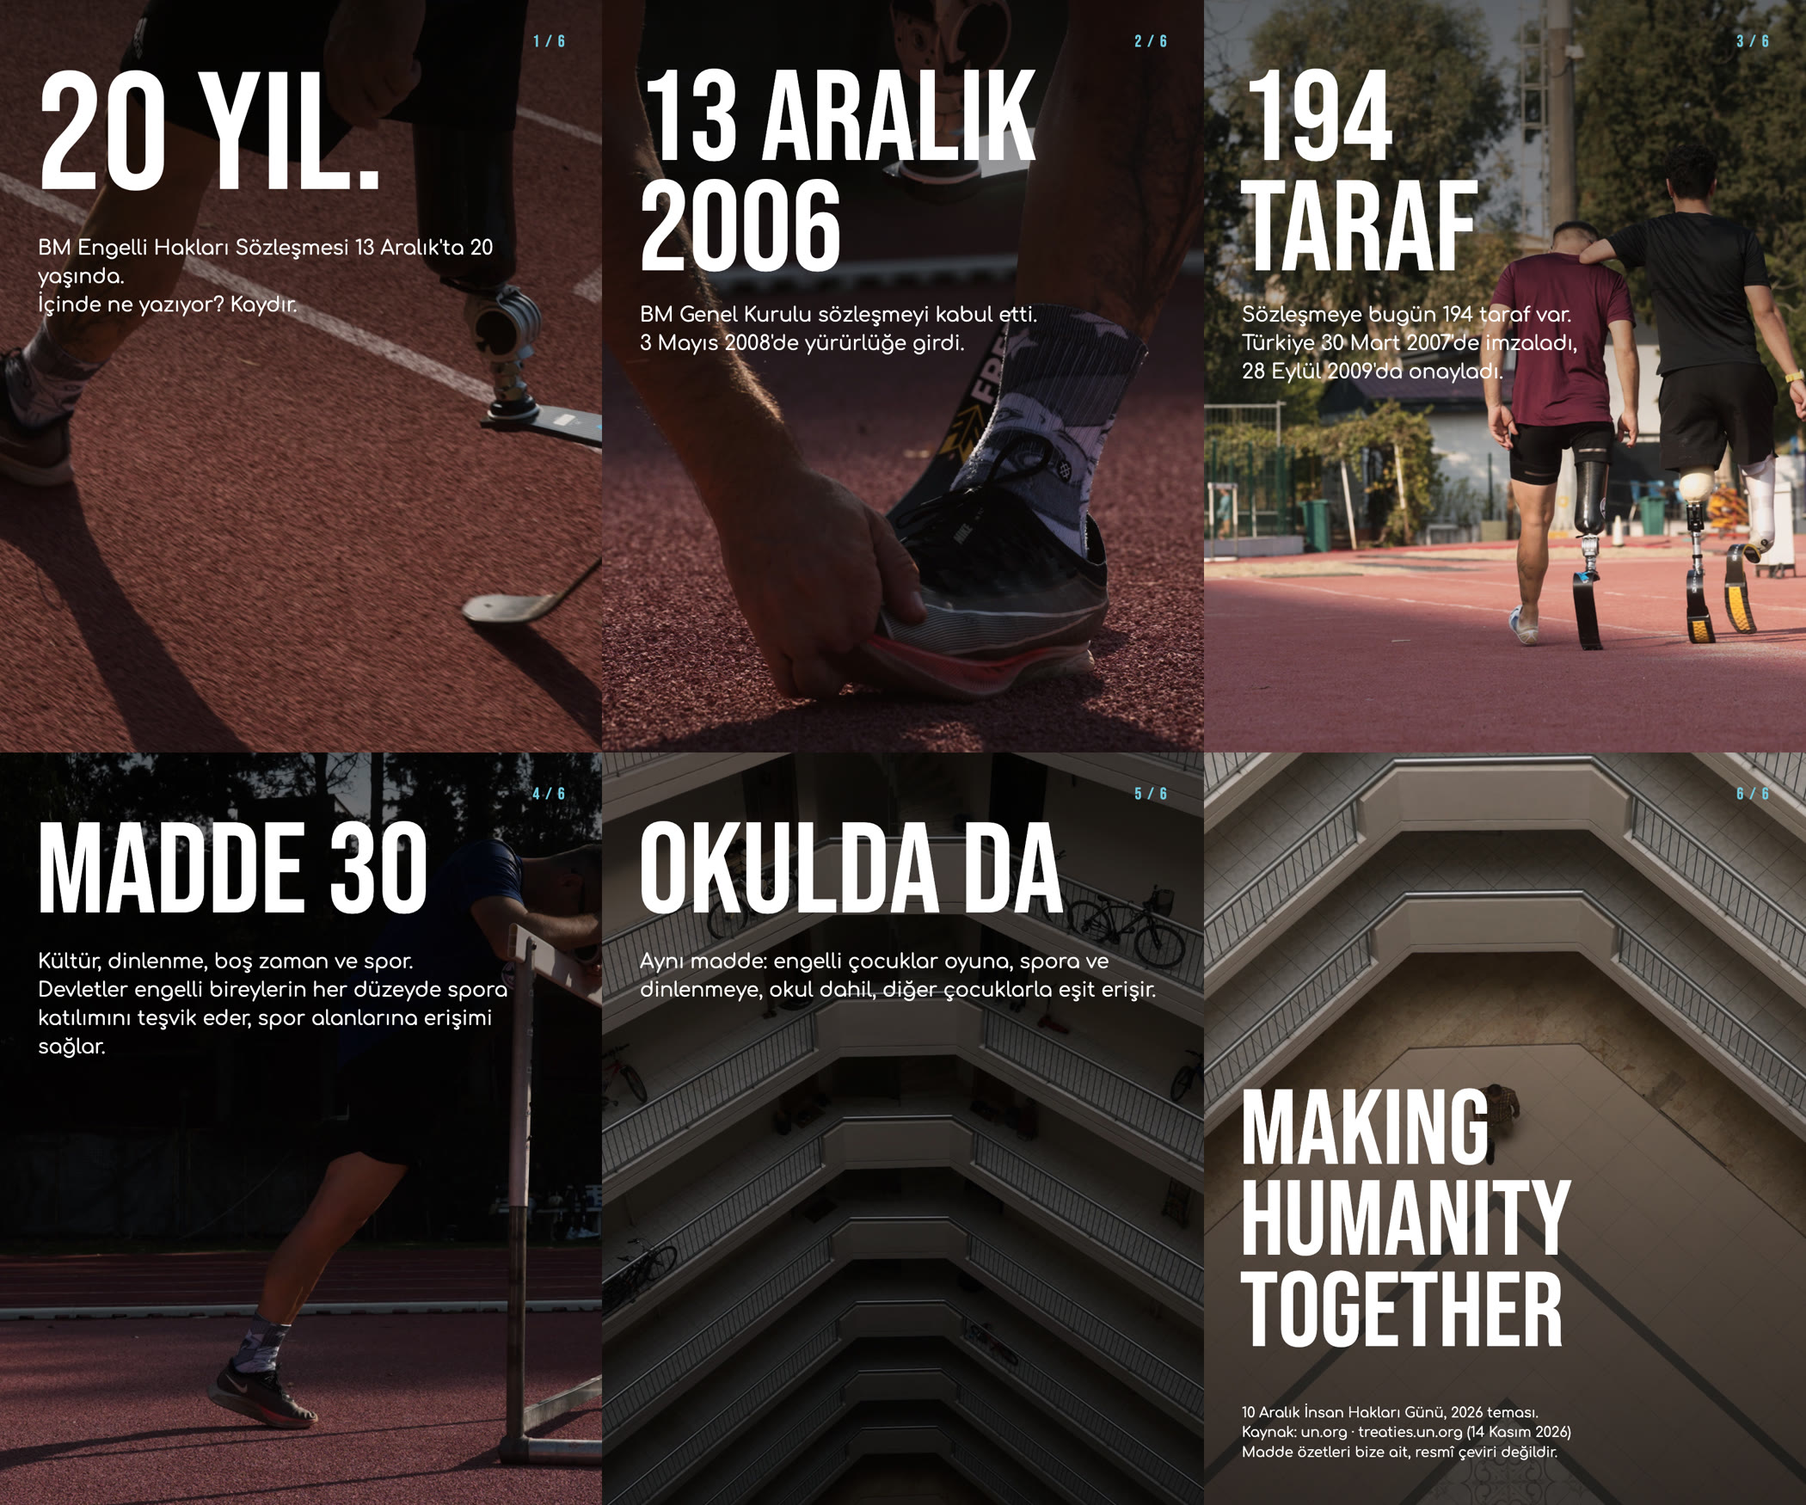
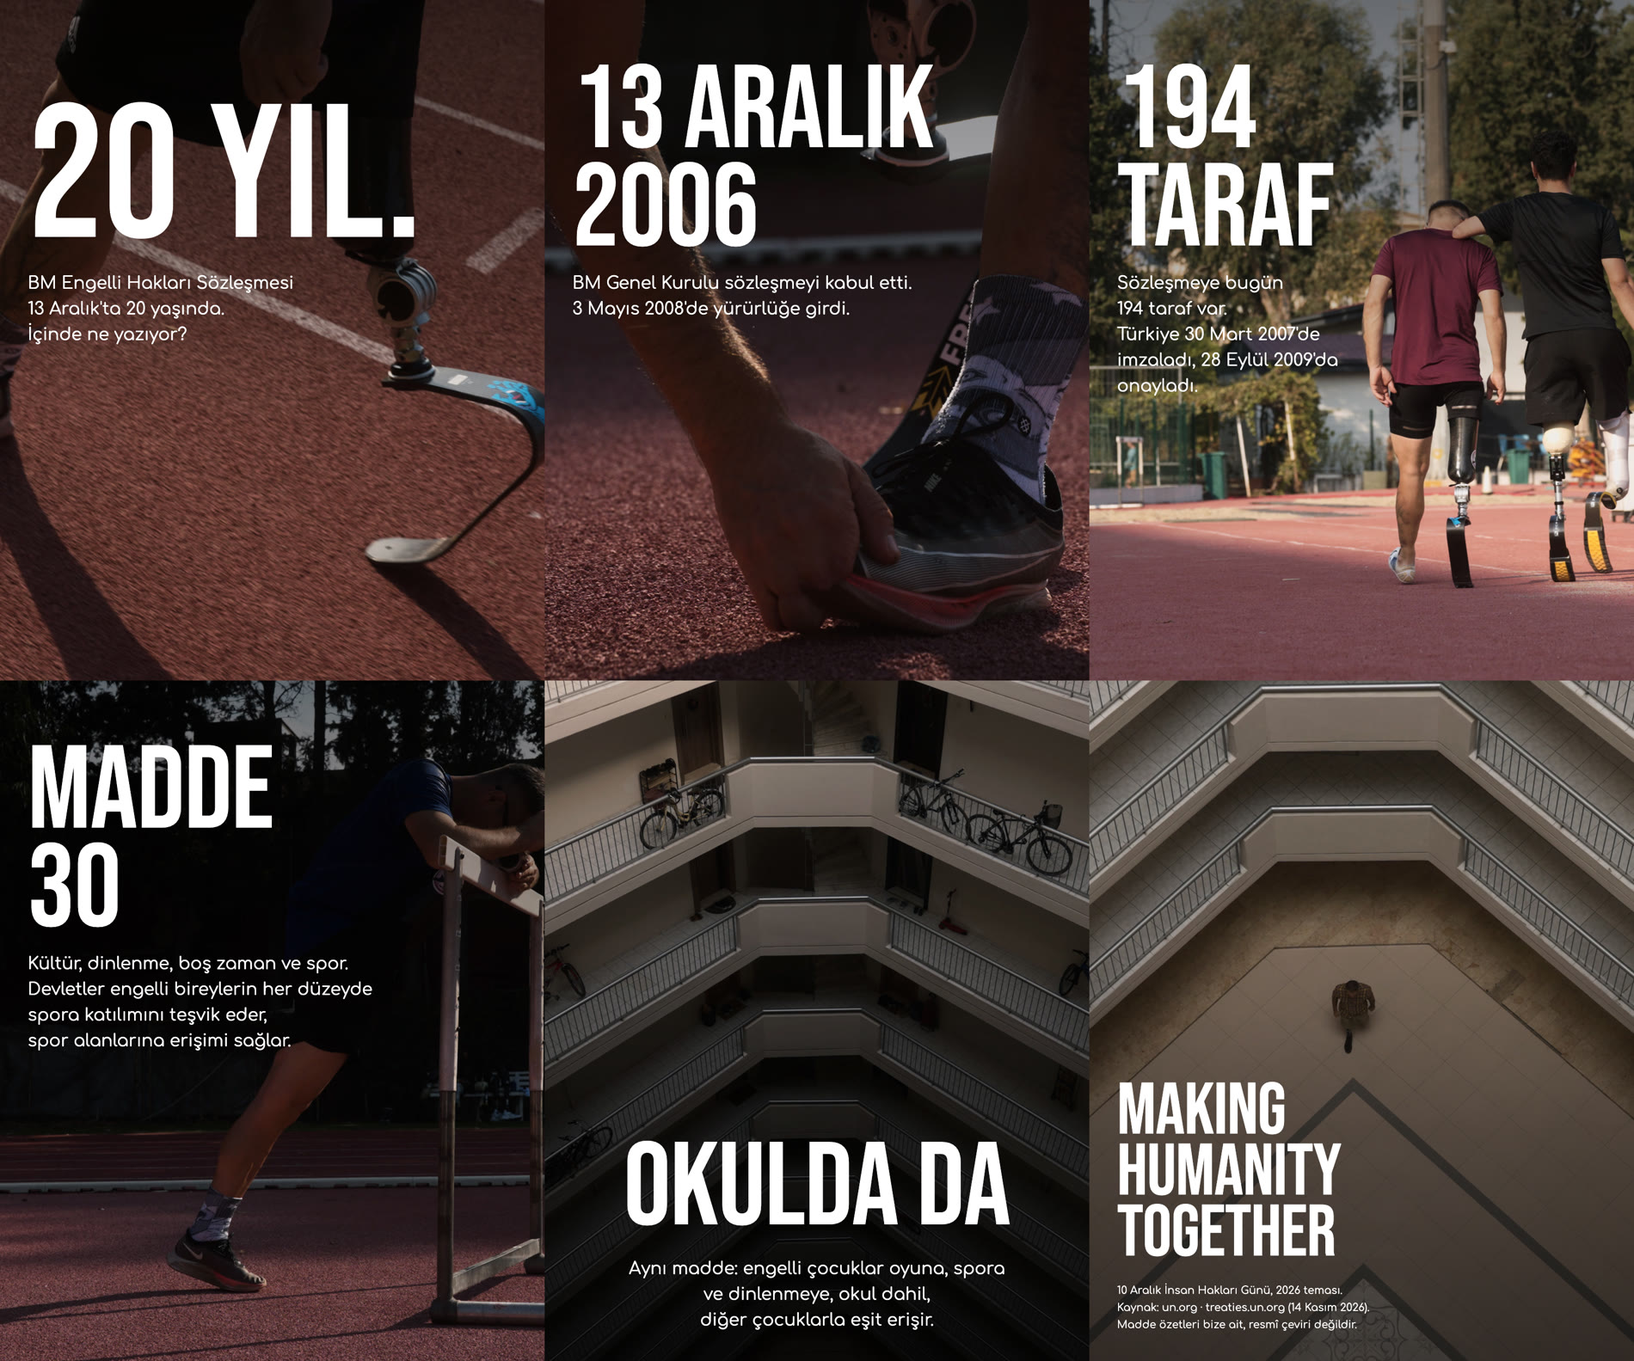
14 Kas: madde 11 v4 — altın oran ızgarası + Fibonacci punto ölçeği, sayfa no/marka adı yok

diff --git a/raporlar/soc-instagram-taslaklar/11-insan-haklari-gunu/kare-6.html b/raporlar/soc-instagram-taslaklar/11-insan-haklari-gunu/kare-6.html
@@ -1,9 +1,17 @@
 <!doctype html><html lang="tr"><head><meta charset="utf-8"><style>@font-face{font-family:Bebas;src:url(file:///Users/ayhanerden/Fox/assets/fonts/BebasNeue-Regular.ttf)}
 @font-face{font-family:Comf;src:url(file:///Users/ayhanerden/Fox/assets/fonts/Comfortaa-Regular.ttf)}
 html,body{margin:0} .f{position:relative;width:1080px;height:1350px;overflow:hidden;color:#fff;background-size:cover;background-position:center}
-.sc{position:absolute;left:0;width:100%;height:820px}
-.sc.top{top:0;background:linear-gradient(180deg,rgba(0,0,0,.55) 0%,rgba(0,0,0,.30) 60%,rgba(0,0,0,0) 100%)}
-.sc.bottom{bottom:0;background:linear-gradient(0deg,rgba(0,0,0,.62) 0%,rgba(0,0,0,.32) 60%,rgba(0,0,0,0) 100%)}
-.h{position:absolute;font:400 230px/0.86 Bebas}
-.s{position:absolute;font:400 36px/1.42 Comf;max-width:940px}
-.n{position:absolute;right:64px;top:60px;font:400 30px/1 Bebas;letter-spacing:3px;color:#72CBDF}</style></head><body><div class="f" style="background-image:url(v3/b6.jpg)"><div class="sc bottom"></div><div class="n">6 / 6</div><div class="h" style="left:64px;bottom:260px;font-size:190px">MAKING<br>HUMANITY<br>TOGETHER</div><div class="s" style="left:68px;bottom:76px;font-size:25px">10 Aralık İnsan Hakları Günü, 2026 teması.<br>Kaynak: un.org · treaties.un.org (14 Kasım 2026)<br>Madde özetleri bize ait, resmî çeviri değildir.</div></div></body></html>
+.sc{position:absolute;left:0;width:100%}
+.sc.top{top:0;height:834px;background:linear-gradient(180deg,rgba(0,0,0,.50) 0%,rgba(0,0,0,.30) 55%,rgba(0,0,0,0) 100%)}
+.sc.bottom{bottom:0;height:834px;background:linear-gradient(0deg,rgba(0,0,0,.60) 0%,rgba(0,0,0,.34) 55%,rgba(0,0,0,0) 100%)}
+.blk{position:absolute;left:55px;width:970px;display:flex;flex-direction:column}
+.blk.top{top:0;height:516px;justify-content:flex-end}
+.blk.bottom{bottom:55px;justify-content:flex-end}
+.blk.c{align-items:center;text-align:center}
+.h{font-family:Bebas;font-weight:400;line-height:.84;letter-spacing:-1px;margin:0}
+.s{font:400 34px/1.5 Comf;margin:0;white-space:nowrap}
+
+.blk.top .s{position:absolute;top:537px;left:0}
+.blk.bottom .h{margin-bottom:34px}
+.small .s{font-size:21px;line-height:1.62}
+.g{position:absolute;background:#72CBDF;opacity:.9}</style></head><body><div class="f" style="background-image:url(v4/b6.jpg)"><div class="sc bottom"></div><div class="blk bottom small"><p class="h" style="font-size:144px">MAKING<br>HUMANITY<br>TOGETHER</p><p class="s">10 Aralık İnsan Hakları Günü, 2026 teması.<br>Kaynak: un.org · treaties.un.org (14 Kasım 2026).<br>Madde özetleri bize ait, resmî çeviri değildir.</p></div></div></body></html>

diff --git a/raporlar/soc-instagram-taslaklar/11-insan-haklari-gunu/kare-4.html b/raporlar/soc-instagram-taslaklar/11-insan-haklari-gunu/kare-4.html
@@ -1,9 +1,17 @@
 <!doctype html><html lang="tr"><head><meta charset="utf-8"><style>@font-face{font-family:Bebas;src:url(file:///Users/ayhanerden/Fox/assets/fonts/BebasNeue-Regular.ttf)}
 @font-face{font-family:Comf;src:url(file:///Users/ayhanerden/Fox/assets/fonts/Comfortaa-Regular.ttf)}
 html,body{margin:0} .f{position:relative;width:1080px;height:1350px;overflow:hidden;color:#fff;background-size:cover;background-position:center}
-.sc{position:absolute;left:0;width:100%;height:820px}
-.sc.top{top:0;background:linear-gradient(180deg,rgba(0,0,0,.55) 0%,rgba(0,0,0,.30) 60%,rgba(0,0,0,0) 100%)}
-.sc.bottom{bottom:0;background:linear-gradient(0deg,rgba(0,0,0,.62) 0%,rgba(0,0,0,.32) 60%,rgba(0,0,0,0) 100%)}
-.h{position:absolute;font:400 230px/0.86 Bebas}
-.s{position:absolute;font:400 36px/1.42 Comf;max-width:940px}
-.n{position:absolute;right:64px;top:60px;font:400 30px/1 Bebas;letter-spacing:3px;color:#72CBDF}</style></head><body><div class="f" style="background-image:url(v3/b4.jpg)"><div class="sc top"></div><div class="n">4 / 6</div><div class="h" style="left:64px;top:120px;font-size:230px">MADDE 30</div><div class="s" style="left:68px;top:350px">Kültür, dinlenme, boş zaman ve spor.<br>Devletler engelli bireylerin her düzeyde spora katılımını teşvik eder, spor alanlarına erişimi sağlar.</div></div></body></html>
+.sc{position:absolute;left:0;width:100%}
+.sc.top{top:0;height:834px;background:linear-gradient(180deg,rgba(0,0,0,.50) 0%,rgba(0,0,0,.30) 55%,rgba(0,0,0,0) 100%)}
+.sc.bottom{bottom:0;height:834px;background:linear-gradient(0deg,rgba(0,0,0,.60) 0%,rgba(0,0,0,.34) 55%,rgba(0,0,0,0) 100%)}
+.blk{position:absolute;left:55px;width:970px;display:flex;flex-direction:column}
+.blk.top{top:0;height:516px;justify-content:flex-end}
+.blk.bottom{bottom:55px;justify-content:flex-end}
+.blk.c{align-items:center;text-align:center}
+.h{font-family:Bebas;font-weight:400;line-height:.84;letter-spacing:-1px;margin:0}
+.s{font:400 34px/1.5 Comf;margin:0;white-space:nowrap}
+
+.blk.top .s{position:absolute;top:537px;left:0}
+.blk.bottom .h{margin-bottom:34px}
+.small .s{font-size:21px;line-height:1.62}
+.g{position:absolute;background:#72CBDF;opacity:.9}</style></head><body><div class="f" style="background-image:url(v4/b4.jpg)"><div class="sc top"></div><div class="blk top"><p class="h" style="font-size:233px">MADDE<br>30</p><p class="s">Kültür, dinlenme, boş zaman ve spor.<br>Devletler engelli bireylerin her düzeyde<br>spora katılımını teşvik eder,<br>spor alanlarına erişimi sağlar.</p></div></div></body></html>

diff --git a/raporlar/soc-instagram-taslaklar/11-insan-haklari-gunu/kare-3.html b/raporlar/soc-instagram-taslaklar/11-insan-haklari-gunu/kare-3.html
@@ -1,9 +1,17 @@
 <!doctype html><html lang="tr"><head><meta charset="utf-8"><style>@font-face{font-family:Bebas;src:url(file:///Users/ayhanerden/Fox/assets/fonts/BebasNeue-Regular.ttf)}
 @font-face{font-family:Comf;src:url(file:///Users/ayhanerden/Fox/assets/fonts/Comfortaa-Regular.ttf)}
 html,body{margin:0} .f{position:relative;width:1080px;height:1350px;overflow:hidden;color:#fff;background-size:cover;background-position:center}
-.sc{position:absolute;left:0;width:100%;height:820px}
-.sc.top{top:0;background:linear-gradient(180deg,rgba(0,0,0,.55) 0%,rgba(0,0,0,.30) 60%,rgba(0,0,0,0) 100%)}
-.sc.bottom{bottom:0;background:linear-gradient(0deg,rgba(0,0,0,.62) 0%,rgba(0,0,0,.32) 60%,rgba(0,0,0,0) 100%)}
-.h{position:absolute;font:400 230px/0.86 Bebas}
-.s{position:absolute;font:400 36px/1.42 Comf;max-width:940px}
-.n{position:absolute;right:64px;top:60px;font:400 30px/1 Bebas;letter-spacing:3px;color:#72CBDF}</style></head><body><div class="f" style="background-image:url(v3/b3.jpg)"><div class="sc top"></div><div class="n">3 / 6</div><div class="h" style="left:64px;top:120px;font-size:230px">194<br>TARAF</div><div class="s" style="left:68px;top:540px">Sözleşmeye bugün 194 taraf var.<br>Türkiye 30 Mart 2007'de imzaladı,<br>28 Eylül 2009'da onayladı.</div></div></body></html>
+.sc{position:absolute;left:0;width:100%}
+.sc.top{top:0;height:834px;background:linear-gradient(180deg,rgba(0,0,0,.50) 0%,rgba(0,0,0,.30) 55%,rgba(0,0,0,0) 100%)}
+.sc.bottom{bottom:0;height:834px;background:linear-gradient(0deg,rgba(0,0,0,.60) 0%,rgba(0,0,0,.34) 55%,rgba(0,0,0,0) 100%)}
+.blk{position:absolute;left:55px;width:970px;display:flex;flex-direction:column}
+.blk.top{top:0;height:516px;justify-content:flex-end}
+.blk.bottom{bottom:55px;justify-content:flex-end}
+.blk.c{align-items:center;text-align:center}
+.h{font-family:Bebas;font-weight:400;line-height:.84;letter-spacing:-1px;margin:0}
+.s{font:400 34px/1.5 Comf;margin:0;white-space:nowrap}
+
+.blk.top .s{position:absolute;top:537px;left:0}
+.blk.bottom .h{margin-bottom:34px}
+.small .s{font-size:21px;line-height:1.62}
+.g{position:absolute;background:#72CBDF;opacity:.9}</style></head><body><div class="f" style="background-image:url(v4/b3.jpg)"><div class="sc top"></div><div class="blk top"><p class="h" style="font-size:233px">194<br>TARAF</p><p class="s">Sözleşmeye bugün<br>194 taraf var.<br>Türkiye 30 Mart 2007'de<br>imzaladı, 28 Eylül 2009'da<br>onayladı.</p></div></div></body></html>

diff --git a/raporlar/soc-instagram-taslaklar/11-insan-haklari-gunu/kare-5.html b/raporlar/soc-instagram-taslaklar/11-insan-haklari-gunu/kare-5.html
@@ -1,9 +1,17 @@
 <!doctype html><html lang="tr"><head><meta charset="utf-8"><style>@font-face{font-family:Bebas;src:url(file:///Users/ayhanerden/Fox/assets/fonts/BebasNeue-Regular.ttf)}
 @font-face{font-family:Comf;src:url(file:///Users/ayhanerden/Fox/assets/fonts/Comfortaa-Regular.ttf)}
 html,body{margin:0} .f{position:relative;width:1080px;height:1350px;overflow:hidden;color:#fff;background-size:cover;background-position:center}
-.sc{position:absolute;left:0;width:100%;height:820px}
-.sc.top{top:0;background:linear-gradient(180deg,rgba(0,0,0,.55) 0%,rgba(0,0,0,.30) 60%,rgba(0,0,0,0) 100%)}
-.sc.bottom{bottom:0;background:linear-gradient(0deg,rgba(0,0,0,.62) 0%,rgba(0,0,0,.32) 60%,rgba(0,0,0,0) 100%)}
-.h{position:absolute;font:400 230px/0.86 Bebas}
-.s{position:absolute;font:400 36px/1.42 Comf;max-width:940px}
-.n{position:absolute;right:64px;top:60px;font:400 30px/1 Bebas;letter-spacing:3px;color:#72CBDF}</style></head><body><div class="f" style="background-image:url(v3/b5.jpg)"><div class="sc top"></div><div class="n">5 / 6</div><div class="h" style="left:64px;top:120px;font-size:230px">OKULDA DA</div><div class="s" style="left:68px;top:350px">Aynı madde: engelli çocuklar oyuna, spora ve dinlenmeye, okul dahil, diğer çocuklarla eşit erişir.</div></div></body></html>
+.sc{position:absolute;left:0;width:100%}
+.sc.top{top:0;height:834px;background:linear-gradient(180deg,rgba(0,0,0,.50) 0%,rgba(0,0,0,.30) 55%,rgba(0,0,0,0) 100%)}
+.sc.bottom{bottom:0;height:834px;background:linear-gradient(0deg,rgba(0,0,0,.60) 0%,rgba(0,0,0,.34) 55%,rgba(0,0,0,0) 100%)}
+.blk{position:absolute;left:55px;width:970px;display:flex;flex-direction:column}
+.blk.top{top:0;height:516px;justify-content:flex-end}
+.blk.bottom{bottom:55px;justify-content:flex-end}
+.blk.c{align-items:center;text-align:center}
+.h{font-family:Bebas;font-weight:400;line-height:.84;letter-spacing:-1px;margin:0}
+.s{font:400 34px/1.5 Comf;margin:0;white-space:nowrap}
+
+.blk.top .s{position:absolute;top:537px;left:0}
+.blk.bottom .h{margin-bottom:34px}
+.small .s{font-size:21px;line-height:1.62}
+.g{position:absolute;background:#72CBDF;opacity:.9}</style></head><body><div class="f" style="background-image:url(v4/b5.jpg)"><div class="sc bottom"></div><div class="blk bottom c"><p class="h" style="font-size:233px">OKULDA DA</p><p class="s">Aynı madde: engelli çocuklar oyuna, spora<br>ve dinlenmeye, okul dahil,<br>diğer çocuklarla eşit erişir.</p></div></div></body></html>

diff --git a/raporlar/soc-instagram-taslaklar/11-insan-haklari-gunu/kare-1.html b/raporlar/soc-instagram-taslaklar/11-insan-haklari-gunu/kare-1.html
@@ -1,9 +1,17 @@
 <!doctype html><html lang="tr"><head><meta charset="utf-8"><style>@font-face{font-family:Bebas;src:url(file:///Users/ayhanerden/Fox/assets/fonts/BebasNeue-Regular.ttf)}
 @font-face{font-family:Comf;src:url(file:///Users/ayhanerden/Fox/assets/fonts/Comfortaa-Regular.ttf)}
 html,body{margin:0} .f{position:relative;width:1080px;height:1350px;overflow:hidden;color:#fff;background-size:cover;background-position:center}
-.sc{position:absolute;left:0;width:100%;height:820px}
-.sc.top{top:0;background:linear-gradient(180deg,rgba(0,0,0,.55) 0%,rgba(0,0,0,.30) 60%,rgba(0,0,0,0) 100%)}
-.sc.bottom{bottom:0;background:linear-gradient(0deg,rgba(0,0,0,.62) 0%,rgba(0,0,0,.32) 60%,rgba(0,0,0,0) 100%)}
-.h{position:absolute;font:400 230px/0.86 Bebas}
-.s{position:absolute;font:400 36px/1.42 Comf;max-width:940px}
-.n{position:absolute;right:64px;top:60px;font:400 30px/1 Bebas;letter-spacing:3px;color:#72CBDF}</style></head><body><div class="f" style="background-image:url(v3/b1.jpg)"><div class="sc top"></div><div class="n">1 / 6</div><div class="h" style="left:64px;top:120px;font-size:300px">20 YIL.</div><div class="s" style="left:68px;top:420px">BM Engelli Hakları Sözleşmesi 13 Aralık'ta 20 yaşında.<br>İçinde ne yazıyor? Kaydır.</div></div></body></html>
+.sc{position:absolute;left:0;width:100%}
+.sc.top{top:0;height:834px;background:linear-gradient(180deg,rgba(0,0,0,.50) 0%,rgba(0,0,0,.30) 55%,rgba(0,0,0,0) 100%)}
+.sc.bottom{bottom:0;height:834px;background:linear-gradient(0deg,rgba(0,0,0,.60) 0%,rgba(0,0,0,.34) 55%,rgba(0,0,0,0) 100%)}
+.blk{position:absolute;left:55px;width:970px;display:flex;flex-direction:column}
+.blk.top{top:0;height:516px;justify-content:flex-end}
+.blk.bottom{bottom:55px;justify-content:flex-end}
+.blk.c{align-items:center;text-align:center}
+.h{font-family:Bebas;font-weight:400;line-height:.84;letter-spacing:-1px;margin:0}
+.s{font:400 34px/1.5 Comf;margin:0;white-space:nowrap}
+
+.blk.top .s{position:absolute;top:537px;left:0}
+.blk.bottom .h{margin-bottom:34px}
+.small .s{font-size:21px;line-height:1.62}
+.g{position:absolute;background:#72CBDF;opacity:.9}</style></head><body><div class="f" style="background-image:url(v4/b1.jpg)"><div class="sc top"></div><div class="blk top"><p class="h" style="font-size:377px">20 YIL.</p><p class="s">BM Engelli Hakları Sözleşmesi<br>13 Aralık'ta 20 yaşında.<br>İçinde ne yazıyor?</p></div></div></body></html>

diff --git a/raporlar/soc-instagram-taslaklar/11-insan-haklari-gunu/kare-2.html b/raporlar/soc-instagram-taslaklar/11-insan-haklari-gunu/kare-2.html
@@ -1,9 +1,17 @@
 <!doctype html><html lang="tr"><head><meta charset="utf-8"><style>@font-face{font-family:Bebas;src:url(file:///Users/ayhanerden/Fox/assets/fonts/BebasNeue-Regular.ttf)}
 @font-face{font-family:Comf;src:url(file:///Users/ayhanerden/Fox/assets/fonts/Comfortaa-Regular.ttf)}
 html,body{margin:0} .f{position:relative;width:1080px;height:1350px;overflow:hidden;color:#fff;background-size:cover;background-position:center}
-.sc{position:absolute;left:0;width:100%;height:820px}
-.sc.top{top:0;background:linear-gradient(180deg,rgba(0,0,0,.55) 0%,rgba(0,0,0,.30) 60%,rgba(0,0,0,0) 100%)}
-.sc.bottom{bottom:0;background:linear-gradient(0deg,rgba(0,0,0,.62) 0%,rgba(0,0,0,.32) 60%,rgba(0,0,0,0) 100%)}
-.h{position:absolute;font:400 230px/0.86 Bebas}
-.s{position:absolute;font:400 36px/1.42 Comf;max-width:940px}
-.n{position:absolute;right:64px;top:60px;font:400 30px/1 Bebas;letter-spacing:3px;color:#72CBDF}</style></head><body><div class="f" style="background-image:url(v3/b2.jpg)"><div class="sc top"></div><div class="n">2 / 6</div><div class="h" style="left:64px;top:120px;font-size:230px">13 ARALIK<br>2006</div><div class="s" style="left:68px;top:540px">BM Genel Kurulu sözleşmeyi kabul etti.<br>3 Mayıs 2008'de yürürlüğe girdi.</div></div></body></html>
+.sc{position:absolute;left:0;width:100%}
+.sc.top{top:0;height:834px;background:linear-gradient(180deg,rgba(0,0,0,.50) 0%,rgba(0,0,0,.30) 55%,rgba(0,0,0,0) 100%)}
+.sc.bottom{bottom:0;height:834px;background:linear-gradient(0deg,rgba(0,0,0,.60) 0%,rgba(0,0,0,.34) 55%,rgba(0,0,0,0) 100%)}
+.blk{position:absolute;left:55px;width:970px;display:flex;flex-direction:column}
+.blk.top{top:0;height:516px;justify-content:flex-end}
+.blk.bottom{bottom:55px;justify-content:flex-end}
+.blk.c{align-items:center;text-align:center}
+.h{font-family:Bebas;font-weight:400;line-height:.84;letter-spacing:-1px;margin:0}
+.s{font:400 34px/1.5 Comf;margin:0;white-space:nowrap}
+
+.blk.top .s{position:absolute;top:537px;left:0}
+.blk.bottom .h{margin-bottom:34px}
+.small .s{font-size:21px;line-height:1.62}
+.g{position:absolute;background:#72CBDF;opacity:.9}</style></head><body><div class="f" style="background-image:url(v4/b2.jpg)"><div class="sc top"></div><div class="blk top"><p class="h" style="font-size:233px">13 ARALIK<br>2006</p><p class="s">BM Genel Kurulu sözleşmeyi kabul etti.<br>3 Mayıs 2008'de yürürlüğe girdi.</p></div></div></body></html>

diff --git a/raporlar/soc-instagram-taslaklar/11-insan-haklari-gunu/uretici.py b/raporlar/soc-instagram-taslaklar/11-insan-haklari-gunu/uretici.py
@@ -1,0 +1,34 @@
+import sys
+F=sys.argv[1]; GRID=len(sys.argv)>2
+# Altın oran ızgarası: 1080x1350. Dikey 413/667, yatay 516/834. Kenar 55. Ölçek (Fibonacci): 377/233/144/89/55/34/21
+fr=[
+ # zone, align, headline, size, sub
+ ("top","l","20 YIL.",377,"BM Engelli Hakları Sözleşmesi<br>13 Aralık'ta 20 yaşında.<br>İçinde ne yazıyor?"),
+ ("top","l","13 ARALIK<br>2006",233,"BM Genel Kurulu sözleşmeyi kabul etti.<br>3 Mayıs 2008'de yürürlüğe girdi."),
+ ("top","l","194<br>TARAF",233,"Sözleşmeye bugün<br>194 taraf var.<br>Türkiye 30 Mart 2007'de<br>imzaladı, 28 Eylül 2009'da<br>onayladı."),
+ ("top","l","MADDE<br>30",233,"Kültür, dinlenme, boş zaman ve spor.<br>Devletler engelli bireylerin her düzeyde<br>spora katılımını teşvik eder,<br>spor alanlarına erişimi sağlar."),
+ ("bottom","c","OKULDA DA",233,"Aynı madde: engelli çocuklar oyuna, spora<br>ve dinlenmeye, okul dahil,<br>diğer çocuklarla eşit erişir."),
+ ("bottom","l","MAKING<br>HUMANITY<br>TOGETHER",144,"10 Aralık İnsan Hakları Günü, 2026 teması.<br>Kaynak: un.org · treaties.un.org (14 Kasım 2026).<br>Madde özetleri bize ait, resmî çeviri değildir."),
+]
+css=f"""@font-face{{font-family:Bebas;src:url(file://{F}/BebasNeue-Regular.ttf)}}
+@font-face{{font-family:Comf;src:url(file://{F}/Comfortaa-Regular.ttf)}}
+html,body{{margin:0}} .f{{position:relative;width:1080px;height:1350px;overflow:hidden;color:#fff;background-size:cover;background-position:center}}
+.sc{{position:absolute;left:0;width:100%}}
+.sc.top{{top:0;height:834px;background:linear-gradient(180deg,rgba(0,0,0,.50) 0%,rgba(0,0,0,.30) 55%,rgba(0,0,0,0) 100%)}}
+.sc.bottom{{bottom:0;height:834px;background:linear-gradient(0deg,rgba(0,0,0,.60) 0%,rgba(0,0,0,.34) 55%,rgba(0,0,0,0) 100%)}}
+.blk{{position:absolute;left:55px;width:970px;display:flex;flex-direction:column}}
+.blk.top{{top:0;height:516px;justify-content:flex-end}}
+.blk.bottom{{bottom:55px;justify-content:flex-end}}
+.blk.c{{align-items:center;text-align:center}}
+.h{{font-family:Bebas;font-weight:400;line-height:.84;letter-spacing:-1px;margin:0}}
+.s{{font:400 34px/1.5 Comf;margin:0;white-space:nowrap}}
+
+.blk.top .s{{position:absolute;top:537px;left:0}}
+.blk.bottom .h{{margin-bottom:34px}}
+.small .s{{font-size:21px;line-height:1.62}}
+.g{{position:absolute;background:#72CBDF;opacity:.9}}"""
+grid='<div class="g" style="left:413px;top:0;width:2px;height:100%"></div><div class="g" style="left:667px;top:0;width:2px;height:100%"></div><div class="g" style="top:516px;left:0;height:2px;width:100%"></div><div class="g" style="top:834px;left:0;height:2px;width:100%"></div><div class="g" style="left:55px;top:0;width:1px;height:100%;opacity:.5"></div><div class="g" style="left:1025px;top:0;width:1px;height:100%;opacity:.5"></div>' if GRID else ''
+for i,(z,a,h,fs,s) in enumerate(fr,1):
+    small=' small' if i==6 else ''
+    al=' c' if a=='c' else ''
+    open(f"v4_{i}{'g' if GRID else ''}.html","w",encoding="utf-8").write(f'<!doctype html><html lang="tr"><head><meta charset="utf-8"><style>{css}</style></head><body><div class="f" style="background-image:url(v4/b{i}.jpg)"><div class="sc {z}"></div><div class="blk {z}{al}{small}"><p class="h" style="font-size:{fs}px">{h}</p><p class="s">{s}</p></div>{grid}</div></body></html>')
